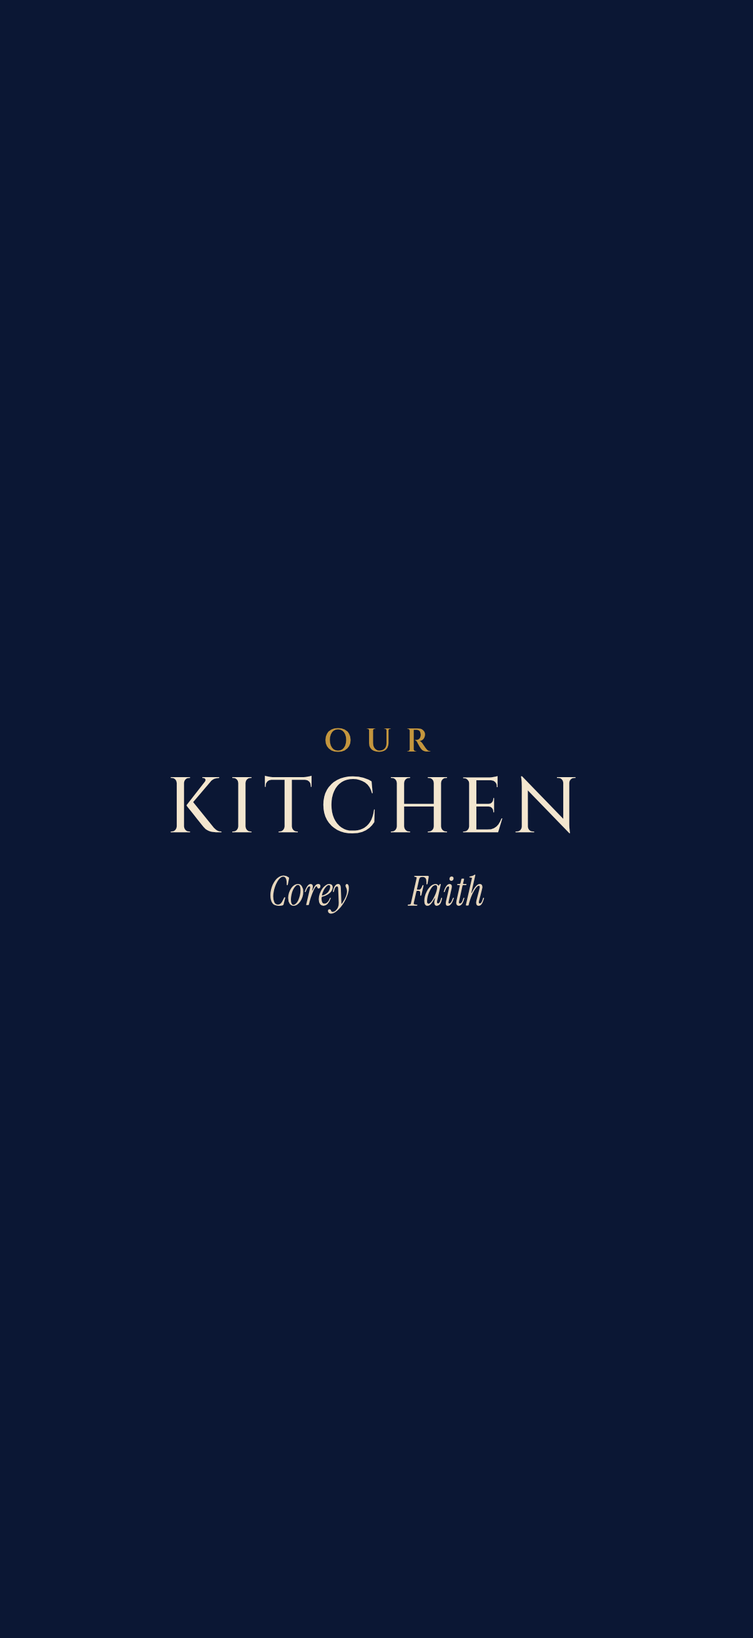
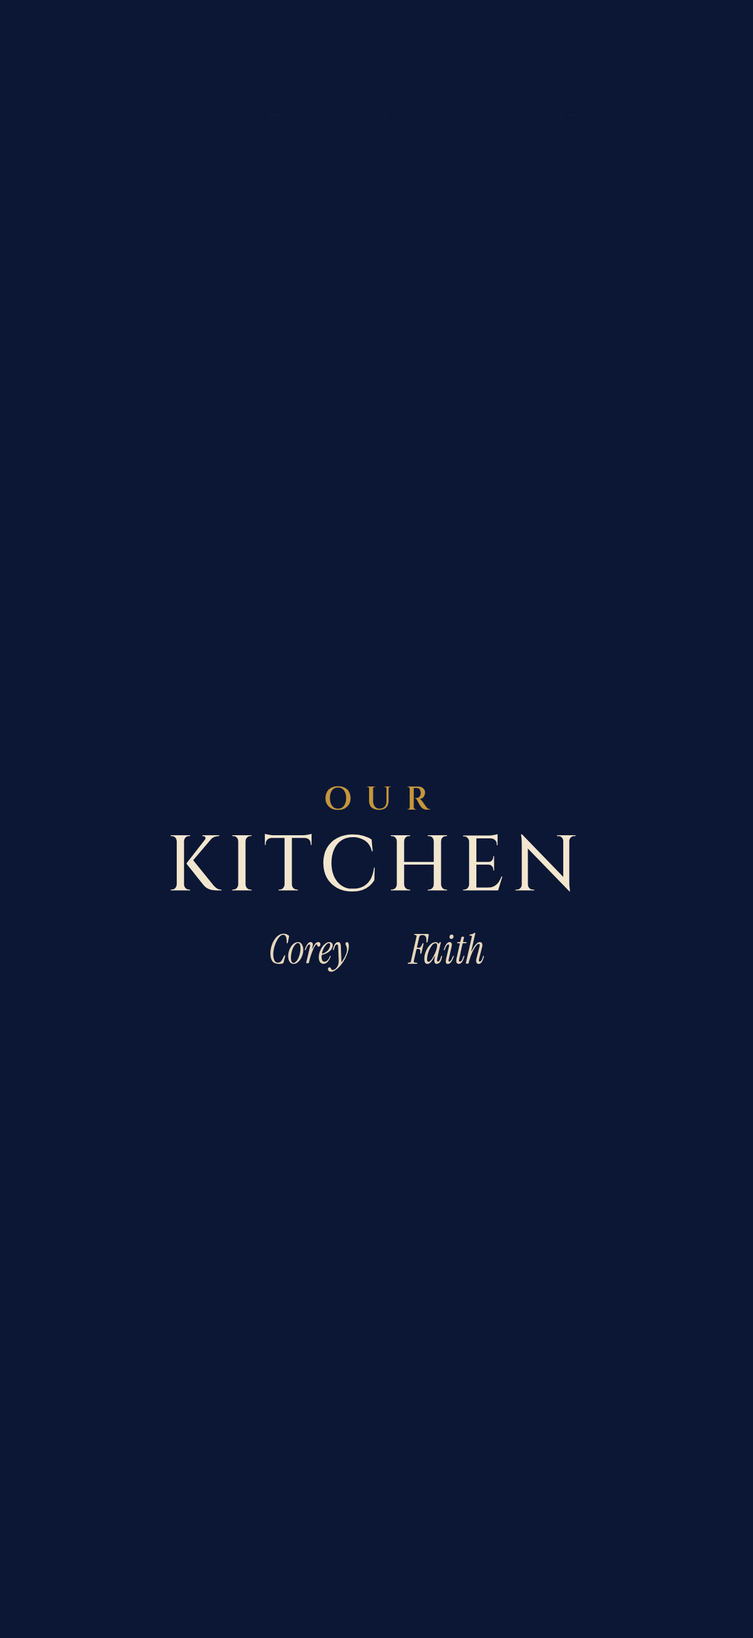
Update 8: solid status bar for new installs (old installs keep the 6.1 strip layout), complete byte-identical Export/Restore, Restore from the welcome screen, launch images under the status bar

Changed region(s): [[0.3682, 0.4325, 0.767, 0.587], [0.2148, 0.4634, 0.2761, 0.5561], [0.3068, 0.4634, 0.3375, 0.5561]]

diff --git a/js/app.js b/js/app.js
@@ -164,19 +164,19 @@ const DEFAULT_STATE = () => ({
 });
 let state = load();
 function load() {
-  try {
-    const raw = JSON.parse(localStorage.getItem(STORE_KEY));
-    if (raw && raw.v === 1) {
-      const d = DEFAULT_STATE();
-      const st = { ...d, ...raw, settings: { ...d.settings, ...raw.settings }, profile: { ...d.profile, ...raw.profile } };
-      ['loveNotes', 'stories', 'freezer', 'wish', 'prices', 'guests', 'edits', 'versions', 'milestones', 'recapSeen', 'favBy', 'nicknames', 'dessertJar', 'tasteTests', 'dishes', 'flashSeen', 'annivSeen', 'plan', 'priceLog', 'noteMeta', 'places', 'thanks', 'dateMenus'].forEach((k) => { if (!st[k] || typeof st[k] !== 'object') st[k] = {}; });
-      if (!st.acura || typeof st.acura !== 'object') st.acura = d.acura;
-      ['favs', 'baked', 'notes', 'ratings', 'profile', 'given', 'photos'].forEach((k) => { if (!st.acura[k] || typeof st.acura[k] !== 'object') st.acura[k] = {}; });
-      if (!st.seededSoup) { st.favourites = { ...st.favourites, 'comfort-soups-01': st.favourites['comfort-soups-01'] || now() }; st.seededSoup = 1; }
-      return st;
-    }
-  } catch (e) { /* ignore */ }
-  return DEFAULT_STATE();
+  try { return migrate(JSON.parse(localStorage.getItem(STORE_KEY))) || DEFAULT_STATE(); } catch (e) { return DEFAULT_STATE(); }
+}
+// add-only migration, shared by app start and Restore: fills in collections an older save doesn't have yet and never
+// changes an existing value. Returns null when the object isn't an Our Kitchen state (version 1).
+function migrate(raw) {
+  if (!raw || raw.v !== 1) return null;
+  const d = DEFAULT_STATE();
+  const st = { ...d, ...raw, settings: { ...d.settings, ...raw.settings }, profile: { ...d.profile, ...raw.profile } };
+  ['loveNotes', 'stories', 'freezer', 'wish', 'prices', 'guests', 'edits', 'versions', 'milestones', 'recapSeen', 'favBy', 'nicknames', 'dessertJar', 'tasteTests', 'dishes', 'flashSeen', 'annivSeen', 'plan', 'priceLog', 'noteMeta', 'places', 'thanks', 'dateMenus'].forEach((k) => { if (!st[k] || typeof st[k] !== 'object') st[k] = {}; });
+  if (!st.acura || typeof st.acura !== 'object') st.acura = d.acura;
+  ['favs', 'baked', 'notes', 'ratings', 'profile', 'given', 'photos'].forEach((k) => { if (!st.acura[k] || typeof st.acura[k] !== 'object') st.acura[k] = {}; });
+  if (!st.seededSoup) { st.favourites = { ...st.favourites, 'comfort-soups-01': st.favourites['comfort-soups-01'] || now() }; st.seededSoup = 1; }
+  return st;
 }
 let saveTimer;
 function save() {
@@ -327,7 +327,9 @@ function applyTheme() {
   const dark = t === 'dark' || (t === 'auto' && mq.matches);
   document.documentElement.dataset.theme = dark ? 'dark' : 'light';
   document.documentElement.classList.toggle('big', !!state.settings.bigText);
-  const meta = $('meta[name="theme-color"]'); if (meta) meta.content = document.body && document.body.classList.contains('acura') ? (dark ? '#170D08' : '#4A2A1A') : dark ? '#060F26' : '#082048';
+  // status bar colour follows the header (both scheme-specific tags, since the app theme can differ from the phone's)
+  const bar = document.body && document.body.classList.contains('acura') ? (dark ? '#170D08' : '#4A2A1A') : dark ? '#060F26' : '#082048';
+  $$('meta[name="theme-color"]').forEach((m) => (m.content = bar));
 }
 mq.addEventListener ? mq.addEventListener('change', applyTheme) : mq.addListener(applyTheme);
 
@@ -955,13 +957,13 @@ function viewSettings() {
     </div>
     <div class="setgroup"><div class="sec-title">Backup</div>
       <p class="small muted">Everything is saved on this phone. Export a backup now and then (or to move to a new phone).${st.lastBackup ? ` Last backup: ${esc(new Date(st.lastBackup).toLocaleDateString('en-CA', { month: 'short', day: 'numeric', year: 'numeric' }))}.` : ''} A reminder shows on the home screen once a month.</p>
-      <div class="btnrow" style="margin-top:10px"><button class="btn ghost" id="exp">${svg('share')}Export</button><label class="btn ghost" style="cursor:pointer">${svg('reset')}Restore<input type="file" id="imp" accept="application/json,.json" hidden></label></div>
+      <div class="btnrow" style="margin-top:10px"><button class="btn ghost" id="exp">${svg('share')}Export</button><label class="btn ghost" style="cursor:pointer">${svg('reset')}Restore${RESTORE_INPUT}</label></div>
     </div>
     <div class="setgroup"><div class="sec-title">More</div>
       <div class="setrow"><span class="l"><b>What's new</b><span>The latest update, in one place</span></span><button class="btn sm ghost" id="showWN">Show</button></div>
       <div class="setrow"><span class="l"><b>Show the welcome screen</b></span><button class="btn sm ghost" id="showW">Show</button></div>
       <div class="setrow"><span class="l"><b>Reset everything</b><span>Favourites, pantry, list, budget, ticks — all of it</span></span><button class="btn sm danger" id="resetAll">Reset</button></div>
-      <p class="small muted" style="margin-top:14px">Our Kitchen · Corey ♥ Faith · ${INDEX.recipes.length} recipes · works offline. Shared sync between our phones is planned for later.</p>
+      <p class="small muted" style="margin-top:14px">Our Kitchen · ${APP_UPDATE} · Corey ♥ Faith · ${INDEX.recipes.length} recipes · works offline. Shared sync between our phones is planned for later.</p>
       <p class="small muted fitinfo">Screen ${FIT.w || ''}×${FIT.screen || ''} · view ${FIT.view || ''} · safe areas ${Math.round(FIT.sat || 0)}/${Math.round(FIT.sab || 0)} · ${FIT.sa ? 'home-screen app' : 'browser'}${FIT.strip ? ` · bottom strip ${FIT.strip}` : ''}</p>
     </div></div>`);
   $$('#themeSeg button').forEach((b) => (b.onclick = () => { st.theme = b.dataset.t; save(); applyTheme(); viewSettings(); }));
@@ -981,7 +983,7 @@ function viewSettings() {
   num('#bLo', 'budgetMin'); num('#bHi', 'budgetMax'); num('#tko', 'takeoutCost');
   $$('[data-unhide]').forEach((b) => (b.onclick = () => { delete state.hidden[b.dataset.unhide]; save(); viewSettings(); toast('Back in the book'); }));
   $('#exp').onclick = exportBackup;
-  $('#imp').onchange = (e) => importBackup(e.target.files[0]);
+  bindRestore($('#view'));
   $('#showW').onclick = showWelcome;
   $('#resetAll').onclick = () => confirmSheet('Reset everything?', 'This wipes favourites, pantry levels, the grocery list, the budget log and your own recipes on this phone. Export a backup first if you might want it back.', 'Reset everything', () => {
     const snap = JSON.stringify(state);
@@ -989,27 +991,51 @@ function viewSettings() {
     setTimeout(() => toast('Fresh start', 'Undo', () => { state = JSON.parse(snap); save(); applyTheme(); router(); toast('Everything is back ♥'); }), 300);
   }, true);
 }
+// Save a file: the iPhone share sheet ("Save to Files") when it can take files, else a normal download. Shares the
+// file only (no title/text, which iOS would save as a second file). Resolves false if the share was cancelled.
 function downloadFile(name, text) {
   const blob = new Blob([text], { type: 'application/json' });
   const file = typeof File === 'function' ? new File([blob], name, { type: 'application/json' }) : null;
-  if (file && navigator.canShare && navigator.canShare({ files: [file] })) { navigator.share({ files: [file], title: name }).catch(() => {}); return; }
+  if (file && navigator.canShare && navigator.canShare({ files: [file] })) return navigator.share({ files: [file] }).then(() => true, () => false);
   const a = document.createElement('a'); a.href = URL.createObjectURL(blob); a.download = name; document.body.appendChild(a); a.click();
   setTimeout(() => { URL.revokeObjectURL(a.href); a.remove(); }, 1000);
+  return Promise.resolve(true);
 }
-function exportBackup() { state.settings.lastBackup = now(); state.settings.backupSnooze = null; save(); downloadFile(`our-kitchen-backup-${todayISO()}.json`, JSON.stringify({ app: 'our-kitchen', exportedAt: new Date().toISOString(), state }, null, 1)); }
+// Backup = the whole saved state (every collection, settings, who-is-this-phone, and all photos, which are stored
+// inside it as JPEG data) plus any other "ourkitchen.*" key on this phone, so a fresh install gets back everything.
+const BACKUP_KEY_PREFIX = 'ourkitchen.';
+function exportBackup() {
+  const st = state.settings; const before = { lastBackup: st.lastBackup, backupSnooze: st.backupSnooze };
+  st.lastBackup = now(); st.backupSnooze = null; save(); // the file records the backup date it was made on
+  const extra = {}; Object.keys(localStorage).forEach((k) => { if (k.startsWith(BACKUP_KEY_PREFIX) && k !== STORE_KEY) extra[k] = localStorage.getItem(k); });
+  downloadFile(`our-kitchen-backup-${todayISO()}.json`, JSON.stringify({ app: 'our-kitchen', exportedAt: new Date().toISOString(), state, extra }, null, 1))
+    .then((ok) => { if (ok) return; Object.assign(st, before); save(); }); // cancelled: no backup was saved
+}
+// file input for Restore (Settings and the welcome screen). iOS greys out files whose type it can't map, so the
+// accept list is broad; the content is checked when it is read.
+const RESTORE_INPUT = '<input type="file" class="restoreIn" accept="application/json,.json,text/plain,application/octet-stream" hidden>';
+function bindRestore(root) { $$('.restoreIn', root).forEach((i) => (i.onchange = () => { importBackup(i.files[0]); i.value = ''; })); }
 function importBackup(file) {
   if (!file) return;
   const rd = new FileReader();
   rd.onload = () => {
-    try {
-      const data = JSON.parse(rd.result); const s = data.state || data;
-      if (!s || s.v !== 1 || typeof s.settings !== 'object') throw new Error('bad');
-      confirmSheet('Restore this backup?', `From ${data.exportedAt ? new Date(data.exportedAt).toLocaleString('en-CA') : 'a backup file'}. It replaces what's on this phone now.`, 'Restore', () => {
-        const d = DEFAULT_STATE(); const snap = JSON.stringify(state); state = { ...d, ...s, settings: { ...d.settings, ...s.settings }, profile: { ...d.profile, ...(s.profile || {}) } }; save(); applyTheme(); go('#/'); router(); toast('Backup restored ♥', 'Undo', () => { state = JSON.parse(snap); save(); applyTheme(); router(); });
-      });
-    } catch (e) { toast("That file doesn't look like an Our Kitchen backup"); }
+    let data, st;
+    try { data = JSON.parse(rd.result); st = migrate(data.state || data); } catch (e) { st = null; }
+    if (!st || typeof st.settings !== 'object') { toast("That file doesn't look like an Our Kitchen backup"); return; }
+    confirmSheet('Restore this backup?', `From ${data.exportedAt ? new Date(data.exportedAt).toLocaleString('en-CA') : 'a backup file'}. It replaces what's on this phone now.`, 'Restore', () => restoreState(st, data.extra));
   };
+  rd.onerror = () => toast("Couldn't read that file");
   rd.readAsText(file);
+}
+// put a backup back exactly as it was saved (written as-is, without a new "updated" time), then show it
+function restoreState(st, extra) {
+  const snap = JSON.stringify(state);
+  try { localStorage.setItem(STORE_KEY, JSON.stringify(st)); } catch (e) { toast('Not enough space on this phone to restore'); return; }
+  clearTimeout(saveTimer); state = st;
+  Object.entries(extra || {}).forEach(([k, v]) => { if (k.startsWith(BACKUP_KEY_PREFIX) && k !== STORE_KEY && typeof v === 'string') { try { localStorage.setItem(k, v); } catch (e) {} } });
+  $('#welcome').hidden = true; // restored from the welcome screen: the backup already knows whose phone this is
+  applyTheme(); applySeason(); updateBadge(); go('#/'); router();
+  toast('Backup restored ♥', 'Undo', () => { state = JSON.parse(snap); save(); applyTheme(); applySeason(); updateBadge(); router(); if (!state.settings.welcomed) showWelcome(); });
 }
 
 // ---------------------------------------------------------------- views: add your own recipe
@@ -2039,10 +2065,11 @@ function initSW() {
 }
 
 // ---------------------------------------------------------------- screen fit: iPhone home-screen app geometry
-// iOS 26+ with black-translucent: the page is drawn from the top of the screen but the viewport is sized as if it
-// started below the status bar, so it ends one status-bar height short of the bottom (the 'strip'). We detect the
-// strip and size the app shell so the tab bar ends where the home-indicator zone starts; the css block
-// "iPhone home-screen fit" explains the rest. Normal geometry (browser, fixed iOS versions) is left alone.
+// Two kinds of home-screen install. Old ones (black-translucent, until re-added): on iOS 26+ the page is drawn from
+// the top of the screen but the viewport ends one status bar short of the bottom (the 'strip'); detected by a top
+// safe area equal to that gap -> html.strip, the 6.1 layout. New ones (solid status bar, Update 8): the view starts
+// below the status bar and reaches the bottom edge (top safe area 0, bottom 34) -> html.solid. The css block
+// "iPhone home-screen fit" explains both. A browser tab gets neither.
 const FIT = {};
 function fitScreen() {
   const r = document.documentElement;
@@ -2057,6 +2084,8 @@ function fitScreen() {
   // one fixed layout, no switch (an old 'ourkitchen.fit' key from update 5 is simply ignored, never deleted).
   // The shell never grows into the strip: iOS draws and hit-tests nothing below the viewport there (see app.css).
   r.classList.toggle('sa', sa); r.classList.toggle('strip', strip > 0);
+  // solid status bar (installs from Update 8 on): the view reaches the bottom edge, with the home indicator inside it
+  r.classList.toggle('solid', sa && !strip && sab > 0);
   Object.assign(FIT, { sa, screen: sh, view: window.innerHeight, w: window.innerWidth, sat, sab, gap, strip });
 }
 fitScreen();
@@ -4009,6 +4038,8 @@ function recapCard(rc, dismiss) {
 }
 
 // ---------------------------------------------------------------- what's new (update 3)
+// shown at the foot of Settings so anyone can check which update a phone (or a Safari tab) is running; bump each update
+const APP_UPDATE = 'Update 8';
 const WHATSNEW_ID = 'u7-2026-11';
 const WHATSNEW = [
   ['Recipes & Ideas', 'Filters → “Ready to make now” shows only what the pantry covers · More ideas has Surprise me (pick time, budget and mood), Fridge clear (with Friday reminders on Home), In season (Ontario produce this month) and soup nudges on cold or rainy days'],
@@ -4101,8 +4132,10 @@ function showWelcome() {
         <p style="margin-top:10px;font-weight:600;color:#12102E">Whose phone is this?</p>
         <div class="who">${['Corey', 'Faith'].map((n) => `<button class="btn ${me === n ? 'on' : ''}" data-me="${n}">${n}</button>`).join('')}</div>
         <button class="btn block go" id="wGo">Let's cook ♥</button>
-        ${standalone ? '' : '<p style="font-size:.78rem;margin-top:10px;color:#5A4C6C">Tip: in Safari tap Share → “Add to Home Screen” to install it like an app.</p>'}</div>`;
+        ${standalone ? '' : '<p style="font-size:.78rem;margin-top:10px;color:#5A4C6C">Tip: in Safari tap Share → “Add to Home Screen” to install it like an app.</p>'}
+        <label class="wrestore">Have a backup? <u>Restore from backup</u>${RESTORE_INPUT}</label></div>`;
     $$('[data-me]', w).forEach((b) => (b.onclick = () => { me = b.dataset.me; draw(); }));
+    bindRestore(w);
     $('#wGo', w).onclick = () => { const fresh = !state.settings.welcomed && !Object.keys(state.cooked).length && !Object.keys(state.notes).length; state.profile.me = me; state.settings.welcomed = true; if (fresh) state.seenWhatsNew = WHATSNEW_ID; save(); w.hidden = true; router(); };
   };
   draw(); w.hidden = false;

diff --git a/index.html b/index.html
@@ -7,9 +7,14 @@
 <meta name="description" content="Corey ♥ Faith — recipes we love.">
 <meta name="apple-mobile-web-app-capable" content="yes">
 <meta name="mobile-web-app-capable" content="yes">
-<meta name="apple-mobile-web-app-status-bar-style" content="black-translucent">
+<!-- solid status bar (Update 8). black-translucent makes iOS 26 size the app one status bar short, leaving a dead strip
+     at the bottom; "default" puts the app below a solid status bar tinted with theme-color, reaching the bottom edge.
+     iOS reads this only when the icon is added: older installs keep black-translucent and the 6.1 strip layout. -->
+<meta name="apple-mobile-web-app-status-bar-style" content="default">
 <meta name="apple-mobile-web-app-title" content="Our Kitchen">
-<meta name="theme-color" content="#082048">
+<!-- status bar colour = the header (navy); applyTheme() in app.js keeps both in step with the app's own theme -->
+<meta name="theme-color" content="#082048" media="(prefers-color-scheme: light)">
+<meta name="theme-color" content="#060F26" media="(prefers-color-scheme: dark)">
 <meta name="format-detection" content="telephone=no">
 <link rel="manifest" href="manifest.webmanifest">
 <link rel="apple-touch-icon" href="icons/apple-touch-icon.png">
@@ -41,8 +46,12 @@
     var dark = t === 'dark' || (t === 'auto' && matchMedia('(prefers-color-scheme: dark)').matches);
     document.documentElement.dataset.theme = dark ? 'dark' : 'light';
     if (s.bigText) document.documentElement.classList.add('big');
-    var gap = screen.height - innerHeight;
-    if (navigator.standalone && innerHeight > innerWidth && gap >= 20 && gap <= 70) document.documentElement.style.setProperty('--splash-strip', gap + 'px');
+    // the strip only exists with black-translucent (old installs), recognisable by a top safe area equal to the gap;
+    // with the solid status bar the top safe area is 0 and the splash simply fills the view
+    var gap = screen.height - innerHeight, pr = document.createElement('div');
+    pr.style.cssText = 'position:fixed;visibility:hidden;padding-top:env(safe-area-inset-top,0px)';
+    document.documentElement.appendChild(pr); var sat = parseFloat(getComputedStyle(pr).paddingTop) || 0; pr.remove();
+    if (navigator.standalone && innerHeight > innerWidth && sat >= 20 && Math.abs(gap - sat) <= 3) document.documentElement.style.setProperty('--splash-strip', gap + 'px');
   } catch (e) {}
 </script>
 <style>

diff --git a/css/app.css b/css/app.css
@@ -1275,6 +1275,12 @@ html[data-theme="dark"] .pupres.yes .pv,html[data-theme="dark"] .pv.yes{color:#9
   body.printing-keepsake .ks-stamps i{background:#fff!important;border-color:#8C6A28!important}
 }
 
+/* ================================================================ update 8: restore from the welcome screen */
+#welcome .wrestore{display:block;margin-top:12px;text-align:center;font-size:.82rem;color:#5A4C6C;cursor:pointer}
+#welcome .wrestore u{color:#082048;font-weight:600;text-underline-offset:3px}
+/* the "Restore this backup?" sheet opens over the welcome screen */
+body:has(#welcome:not([hidden])) #sheetWrap{z-index:460}
+
 /* ================================================================ iPhone home-screen fit (one implementation, replaces the update 4/5 workarounds)
    iOS 26 standalone + black-translucent: the page is drawn from the top of the screen but WebKit sizes the viewport
    one status bar short (874pt screen, 812pt viewport on iPhone 16/17 Pro) and fills the strip below with the BODY
@@ -1299,3 +1305,8 @@ html.strip body:has(#cook.candle:not([hidden])){background:#1C0F1E}
 html.strip body:has(#welcome:not([hidden])){background:#F5E6CE}
 html.strip body:has(#splash){background:#F5E6CE}
 html[data-theme="dark"].strip body:has(#splash){background:#0B1734}
+/* solid status bar (installs from Update 8 on, html.solid): the view starts below the status bar and runs to the
+   bottom edge, so no strip. Each tab spans the whole bar down to the edge (all of it tappable) and its icon and label
+   sit at the foot, ending 10pt into the home-indicator area: about 11pt above the pill, like a native tab bar. */
+html.solid #tabbar{padding-bottom:0}
+html.solid #tabbar a{height:calc(var(--tabh) + var(--sab) - 10px);justify-content:flex-end;padding-bottom:calc(var(--sab) - 10px)}

diff --git a/sw.js b/sw.js
@@ -1,6 +1,6 @@
 /* Our Kitchen service worker — offline support.
    VERSION and the PRECACHE list are rewritten by tools/build_index.py. */
-const VERSION = 'd62776c26f';
+const VERSION = 'b28d2bcb68';
 const CACHE = 'our-kitchen-' + VERSION;
 const VENDOR = 'ok-vendor-tesseract-5.1.1';
 const PRECACHE = /*PRECACHE*/[

diff --git a/PROJECT_NOTES.md b/PROJECT_NOTES.md
@@ -25,6 +25,7 @@ that every saved value survived (see `/workspace/cookbook/tools/preserve_*.mjs` 
 1. `python3 tools/build_index.py` rebuilds `recipes/index.json`, checks the dislike list, sets the $/$$/$$$ and
    time tags, and **bumps the SW version** (a hash of the files). Run it after ANY change, or phones keep the old copy.
 2. Test (saved-data preservation + iPhone emulation, including the 402×874 screen with an 812 viewport).
+   Bump `APP_UPDATE` in app.js (shown at the foot of Settings).
 3. `git commit` and `git push` to `main`. Pages deploys in about a minute; check that the live `sw.js` shows the new `VERSION`.
 4. Phones self-update (the new SW is applied on the next quiet moment, with an "Updated" toast). Closing and reopening the app helps.
 
@@ -34,7 +35,14 @@ that every saved value survived (see `/workspace/cookbook/tools/preserve_*.mjs` 
 - `localStorage["ourkitchen.weather"]`: cached London weather (safe to lose)
 - `localStorage["ourkitchen.fit"]`: left by Update 5's removed switch. Now ignored; never delete it
 - `sessionStorage["ok-scroll"]`, `["ok-updated"]`: transient (scroll restore and toast after a self-update)
-- Backups: Settings → Backup → Export/Restore (JSON of the state)
+- No IndexedDB and no other store: every photo (recipe photos, cooked-it photos, Acura's wall) is a JPEG data URL
+  inside `ourkitchen.v1`
+- Backups (Update 8 audit): Settings → Backup → Export writes `{ app, exportedAt, state, extra }`, where `state` is
+  `ourkitchen.v1` byte for byte and `extra` holds every other `ourkitchen.*` key. iPhone: share sheet (files only) →
+  Save to Files; elsewhere a download. Restore (Settings, or "Restore from backup" on the welcome screen of a fresh
+  install) runs the same add-only `migrate()` as app start, writes the state as-is (no new `updatedAt`), puts back the
+  `extra` keys and hides the welcome. Test: `tools/u8_backup.mjs` (4 MB of photos → export → empty profile → restore
+  → every key identical; `FROM=old7` exports with the Update 7 build)
 - Update 7 added (add-only) to the state: `plan` (week plan by date), `staples`, `priceLog` (last 12 receipt prices
   per item), `noteMeta` (who/when a recipe note was edited), `places`, `mystery`, `thanks`, `dateMenus`, `acura.photos`
   (640px JPEGs, max 30; all photos live in localStorage, so the phone's ~5MB limit applies)
@@ -56,7 +64,7 @@ A names setting, a welcome tour, a help page, an accessibility check, a tile red
 - Faith sync (data is per phone; the state shape is ready for it)
 - Recipes: 21 of the 101 planned are in; **80 still to add** in small batches (`app_src/batch*.py` pattern)
 
-## iOS 26 "strip" and the tab bar (final solution, Update 6.1)
+## iOS 26 "strip", the status bar and the tab bar (Update 6.1 + Update 8)
 On iOS 26.1+ with `apple-mobile-web-app-status-bar-style=black-translucent`, a home-screen app is drawn from the top
 of the screen, but the viewport is one status bar short (iPhone 16/17 Pro: screen 874pt, viewport 812, insets 62/34).
 WebKit fills the 62pt strip below with the **body** background colour. It does not draw page content there and does
@@ -71,8 +79,16 @@ exactly 812pt although the image continues.
   58pt bar (754–812pt), clear of the home-indicator gesture zone. The welcome card is edge to edge at the bottom and its
   cream continues into the strip. The gap from the labels to the home-indicator pill (~54pt) cannot be smaller
   without moving the icons into the dead zone. Settings shows a diagnostics line (screen, view, safe areas, strip).
-- A full fix would be to drop black-translucent, but changing that meta needs the home-screen icon re-added, which
-  wipes data unless you Export first and then Restore. Only do it if Corey says yes.
+- Update 8 (Corey said yes): `apple-mobile-web-app-status-bar-style` is now `default`. iOS reads it only when the icon
+  is added, so there are two kinds of install, told apart by `fitScreen()`:
+  - old install (black-translucent; Faith until she re-adds): top safe area 62 = the gap → `html.strip`, the exact
+    6.1 layout above (pixel-identical, checked with tools against the Update 7 build)
+  - new install: the view starts below a solid status bar (tinted by `theme-color`, which `applyTheme()` sets to the
+    header colour: navy, or brown on Acura's tab) and reaches the bottom edge; top safe area 0, bottom 34 →
+    `html.solid`: each tab runs to the bottom edge (all tappable), labels end ~11pt above the home-indicator pill
+  - launch images (`tools/u8_launch.mjs`) centre the wordmark under the status bar, where the splash sits now
+  - Emulation: `tools/u4_env.mjs` `mode: "solid"` (real `env()` insets via CDP `Emulation.setSafeAreaInsetsOverride`)
+- Re-adding the icon deletes that install's storage: always Export first, then Restore in the new install.
 
 ## Smoothness rules (Update 6)
 - `render()` never replays the screen-enter animation, keeps the scroll position, and keeps the tapped control under
@@ -107,3 +123,4 @@ exactly 812pt although the image continues.
 | 6 | see `git log` | Middle-ground tab bar fit (no switch), splash fit, no shake on taps, smooth search, wheel re-spin fix, notes |
 | 6.1 | see `git log` | Shell back inside the viewport (tabs fully tappable), bigger tab icons, edge-to-edge welcome card |
 | 7 | see `git log` | Week plan, staples, price memory, prep ahead, swaps, notes, places, mystery meal, thank-you jar, date-in menu, keepsake, secret rating, Acura search/share/photo wall, weather/Friday/season/surprise ideas, ready filter, badges |
+| 8 | see `git log` | Solid status bar for new installs (no strip; old installs keep 6.1), backup audit: Export/Restore complete and byte-identical, Restore from the welcome screen |
